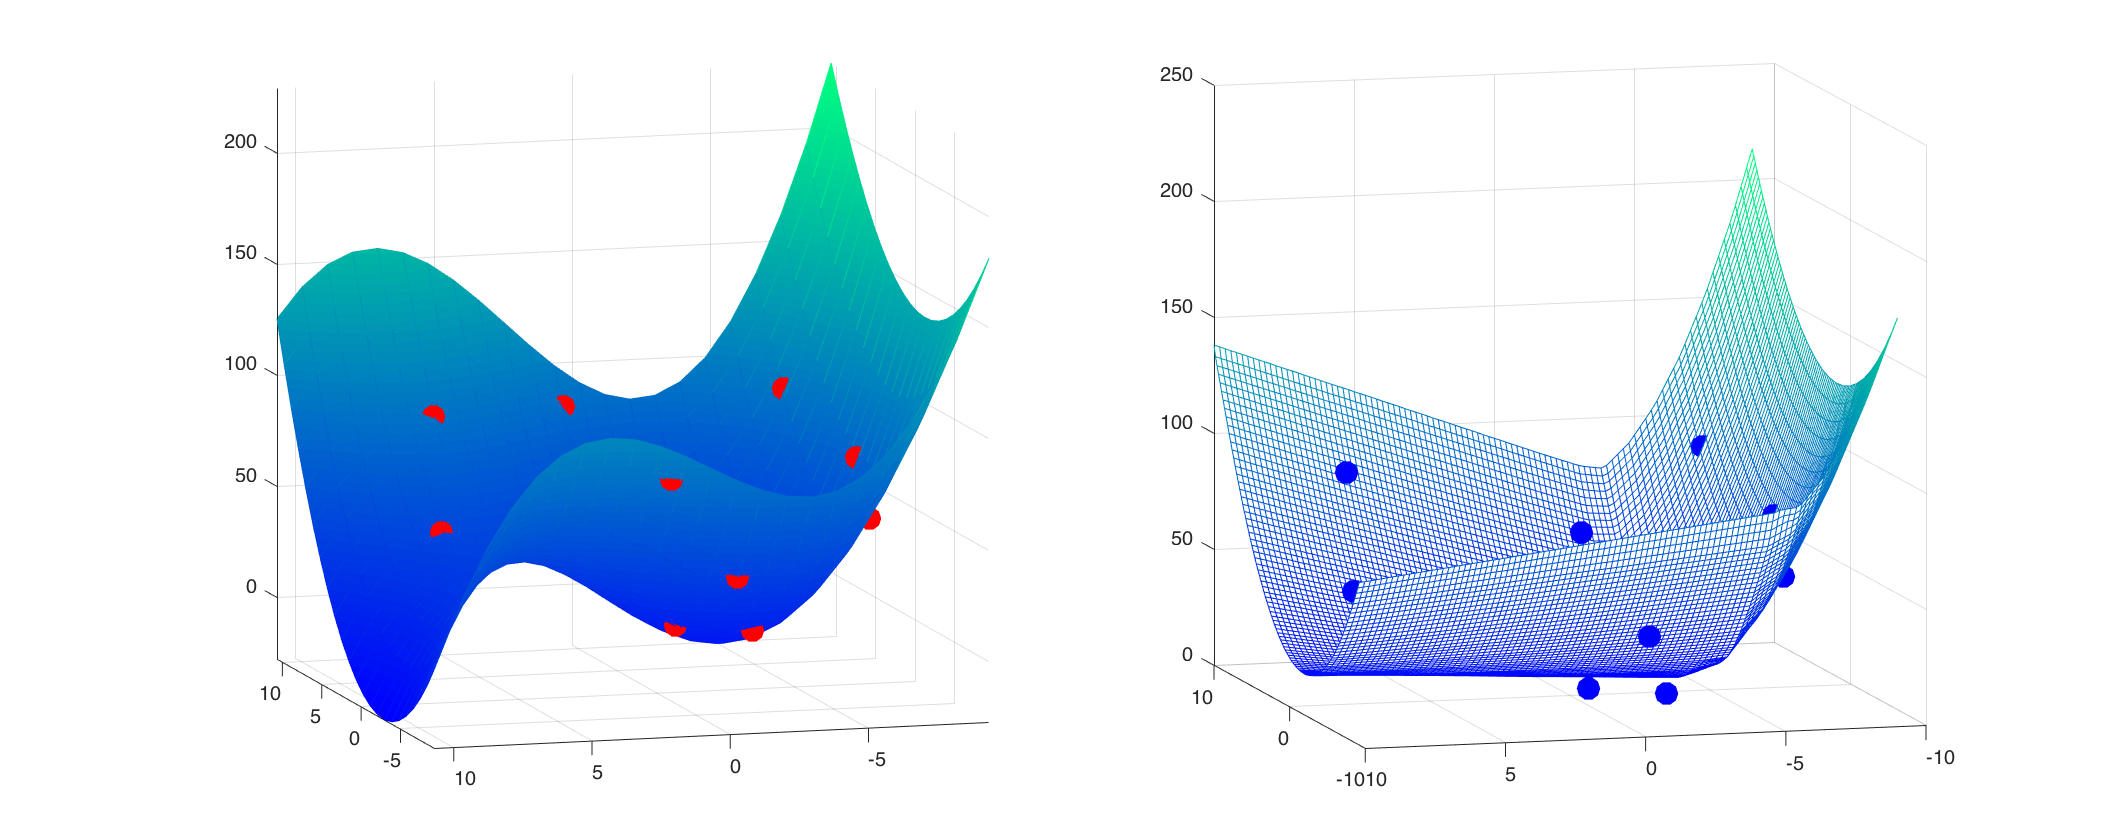
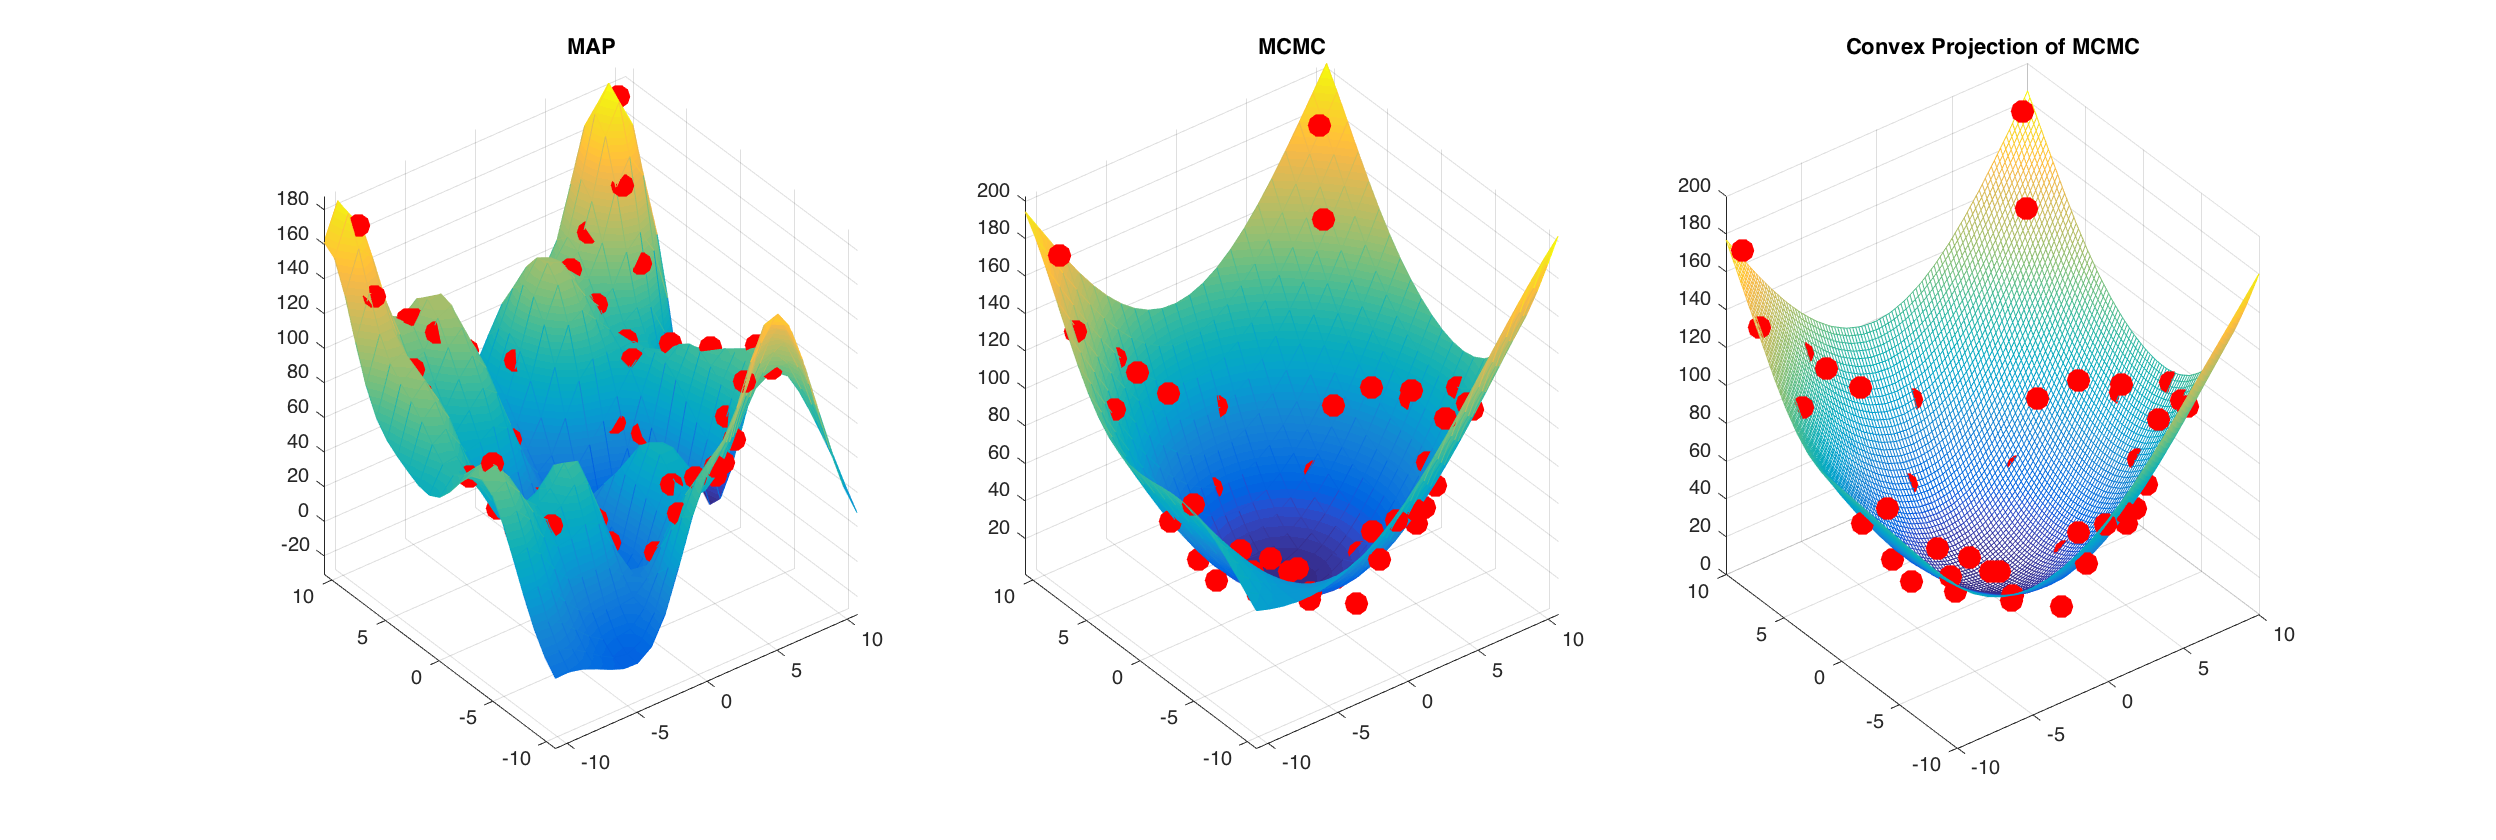
titles

diff --git a/gp_testing.m b/gp_testing.m
@@ -20,7 +20,7 @@ tol_thres = 0;
 eps1 = 10^-5;      % These 2 epsilons are used for convergence of the algo.
 eps2 = 10^-5;
 iter = 0;          % Counter for iterations
-n = 10;            % Sample size
+n = 50;            % Sample size
 d = 2;             % Dimension d
 sig = 10.0;         % Error variance
 ls_factor = 0.06;  % Lengthscale factor (proportion of x-range)
@@ -34,12 +34,27 @@ ls_factor = 0.06;  % Lengthscale factor (proportion of x-range)
 figure;
 subplot(1, 3, 1)
 [xt_gp, y_gp] = run_gp(x_raw, y_raw, ls_factor, 'MAP');
+title('MAP');
 subplot(1, 3, 2)
 [xt_gp, y_gp] = run_gp(x_raw, y_raw, ls_factor, 'MCMC');
+title('MCMC');
 % GET CONVEX PROJECTION.
 n_gp = length(xt_gp);
 convex_y = project_to_convex(n_gp, d, xt_gp, y_gp, eps1, eps2, Max_Iter, rho);
-%y-convex_y
+y_gp-convex_y
+
+% Sample MCMC's, each with a projection. Average MCMC's, and average
+% Projections. Then compare average_MCMC and average_convproj to true f(x),
+% which is convex. Compare by M=1000... 1/M * sum(norm(avg_mcmc)^2).
+% For MSE, can use 100 randomly sampled point. For visualization, plot the
+% average surface over the whole grid.
+% 
+% Try to get actual parameter values out of gpstuff, for traceplots.
+%
+% Try one-dim, plot true, avg_gp_mcmc, avg_gp_mcmc_cp
+%
+%
+
 
 % PLOT CONVEX OVER ORIGINAL GP.
 [xq, yq] = meshgrid(-10:.2:10);
@@ -47,9 +62,11 @@ vq = griddata(xt_gp(:,1), xt_gp(:,2), convex_y, xq, yq);
 subplot(1, 3, 3)
 mesh(xq,yq,vq);
 hold on
-plot3(x_raw(:,1), x_raw(:,2), y_raw, 'b.', 'MarkerSize', 40);
+plot3(x_raw(:,1), x_raw(:,2), y_raw, 'r.', 'MarkerSize', 40);
+title('Convex Projection of MCMC');
 
 
+%--------------------------------------------------------------------------
 % DIAGNOSTICS FROM SEN, on outputs of project_to_convex that aren't
 % currently being returned.
 % h= figure(1)

diff --git a/Functions/run_gp.m b/Functions/run_gp.m
@@ -1,10 +1,15 @@
 function [xt, Eft] = run_gp(x, y, ls_factor, mcmc_or_map)
-% Run gpstuff to produce GP posterior surface.
+% Run gpstuff, then produce and plot GP posterior surface.
+%
 % Inputs:
 %   x: n x d matrix of data values.
 %   y: n x 1 matrix of response values.
 %   ls_factor: Prior value for lengthscale hyperparameter.
 %   color: Colormap selection, e.g. "winter" or "summer".
+%
+% Returns:
+%   xt: Matrix of grid points to evaluate over.
+%   Eft_s: Samples from GP posterior.
 
 % STEP 0. Establish boundary of data, to make grid for surface.
 grid_granularity = 20;
@@ -44,15 +49,24 @@ if strcmp(mcmc_or_map, 'MAP')
 
 % STEP 2. Optimize GP and get params, MCMC version.
 elseif strcmp(mcmc_or_map, 'MCMC')
-    [gp_rec, g, opt] = gp_mc(gp, x, y, 'nsamples', 120);
-    gp_rec = thin(gp_rec, 21, 2);
+    [rfull, g, opt] = gp_mc(gp, x, y, 'nsamples', 120);
+    gp_rec = thin(rfull, 21, 2);
     
     % STEP 3. Produce surface prediction.
-    % [Eft_s, Varft_s] = gpmc_preds(rfull, x, y, xt);  % TODO: What is rfull?
-    [Eft_mc, Varft_mc] = gp_pred(gp_rec, x, y, xt);
-    z = reshape(Eft_mc, size(xt1));
-    Eft = Eft_mc;
+    [Eft_s, Varft_s] = gpmc_preds(gp_rec, x, y, xt);  % Produce MCMC predictions.
+    num_samples = size(Eft_s, 2);
+    Eft_smp = Eft_s(:, randi(num_samples));
+    % [Eft_mc, Varft_mc] = gp_pred(gp_rec, x, y, xt);  % Averages thinned samples.
+    
+    z = reshape(Eft_smp, size(xt1));
+    Eft = Eft_smp;
 
+% STEP 2. Optimize GP and get params, GRID INTEGRATION version.
+elseif strcmp(mcmc_or_map, 'GRIDINT')
+    [gp_array, P_TH, th, Eft_ia, Varft_ia, fx_ia, x_ia] = gp_ia(gp, x, ...
+        y, xt, 'int_method', 'grid');
+    Eft = Eft_ia;
+    
 else
     error('Select either "MCMC" or "MAP" inference')
 
